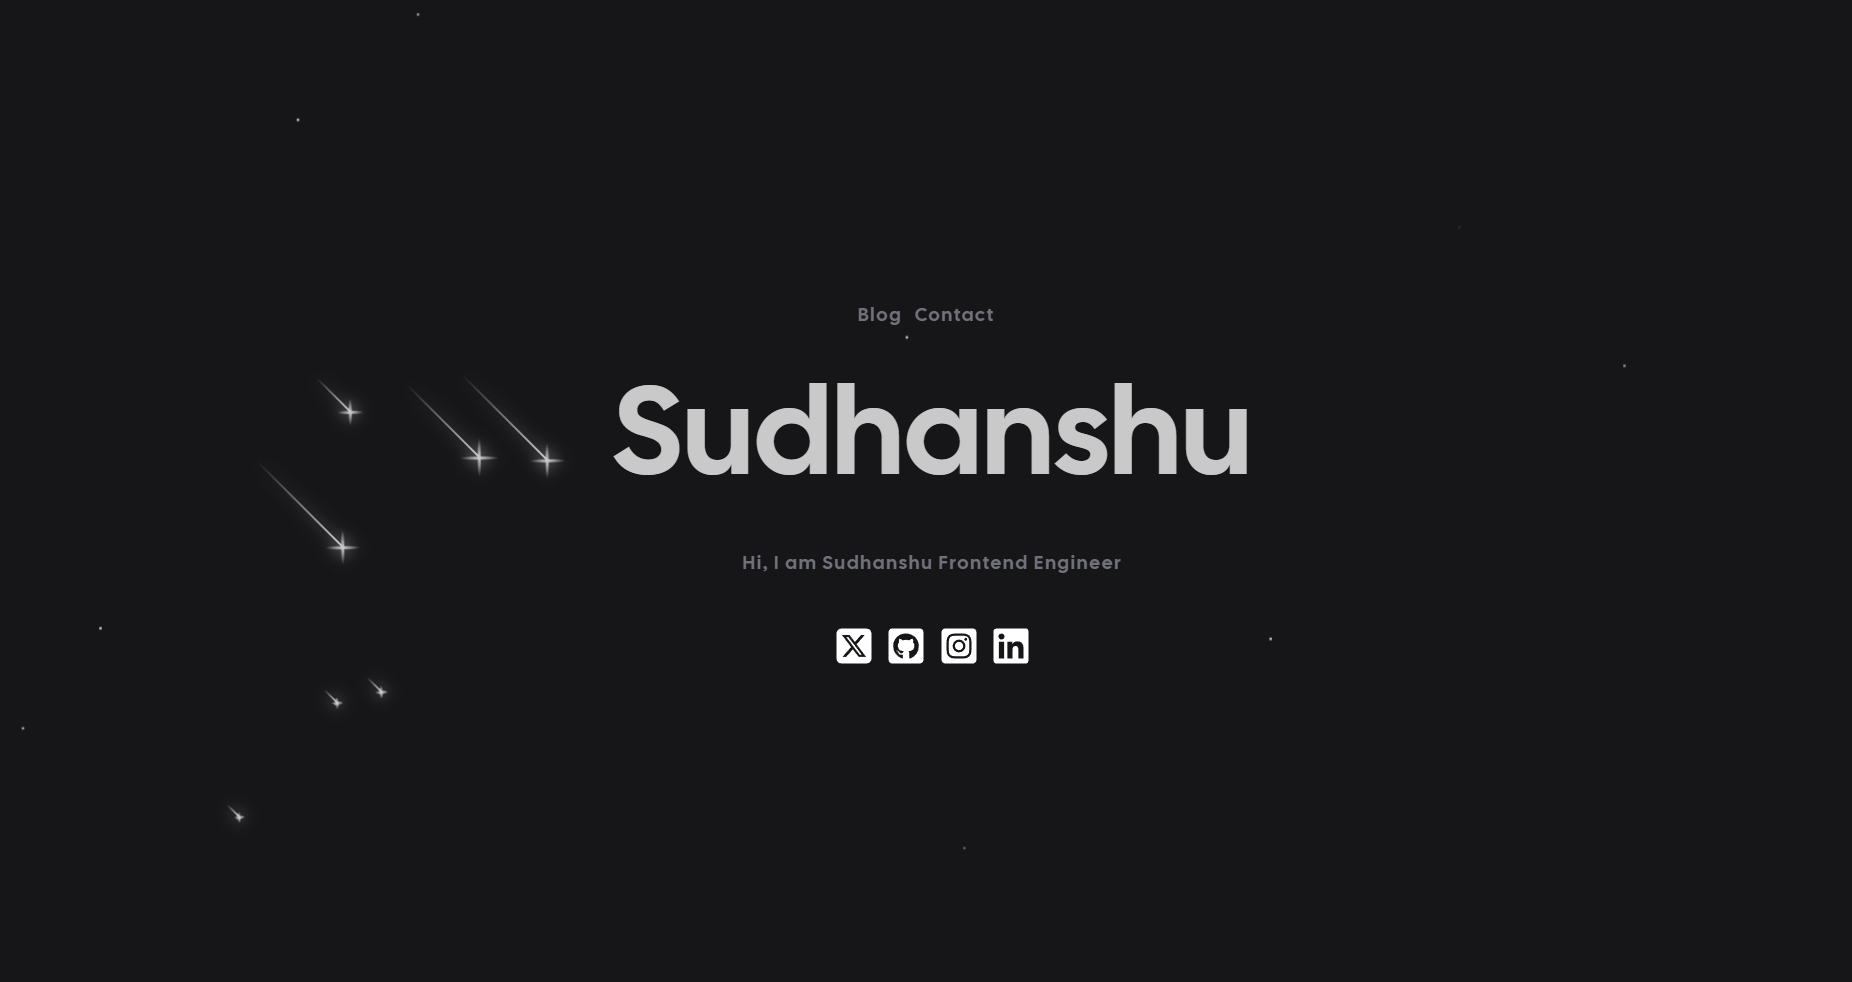
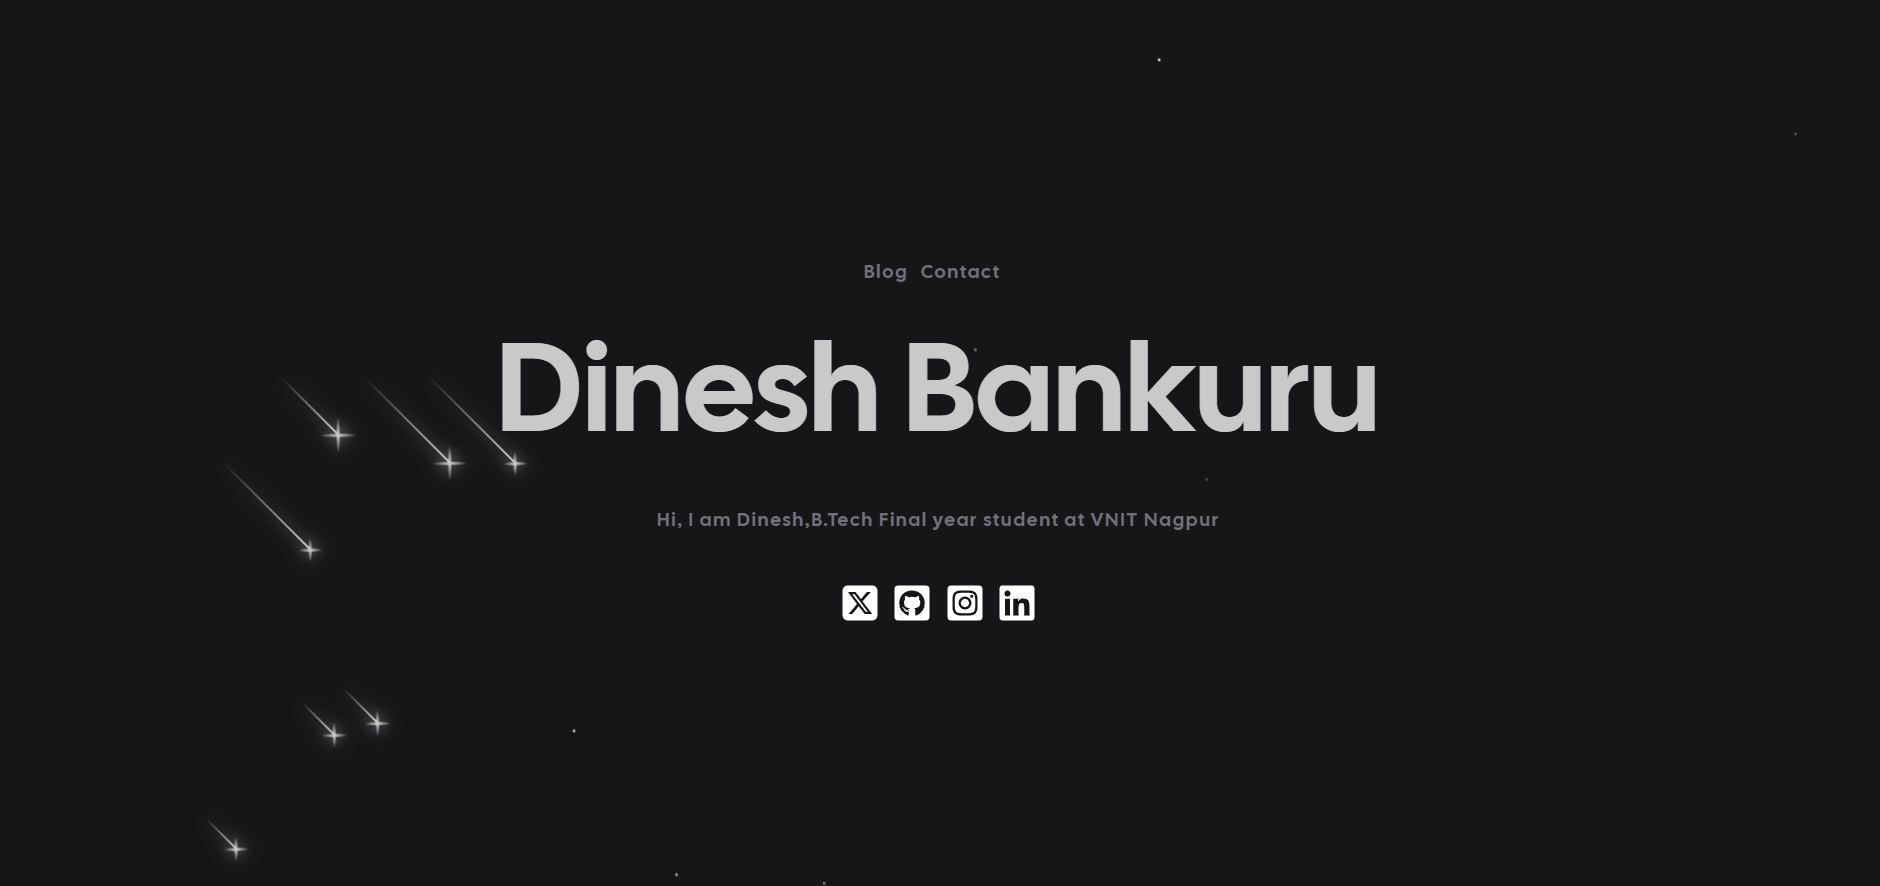
Made Changes

diff --git a/index.html b/index.html
@@ -21,38 +21,38 @@
     <meta name="viewport" content="width=device-width, initial-scale=1.0" />
 
     <!--  Essential META Tags -->
-    <meta property="og:title" content="sudhanshu soni" />
+    <meta property="og:title" content="Dinesh Bankuru" />
     <meta property="og:type" content="article" />
     <meta
       property="og:image"
-      content="https://sudhanshusoni.tech/siteThumbnail.png"
+      content="https://dinesh-portfolio-roan.vercel.app/siteThumbnail.png"
     />
     <meta
       property="og:url"
-      content="https://sudhanshusoni.tech/siteThumbnail.png"
+      content="https://dinesh-portfolio-roan.vercel.app/siteThumbnail.png"
     />
     <meta name="twitter:card" content="summary_large_image" />
     <meta
       name="twitter:image"
-      content="https://sudhanshusoni.tech/siteThumbnail.png"
+      content="https://dinesh-portfolio-roan.vercel.app/siteThumbnail.png"
     />
 
     <!--  Non-Essential, But Recommended -->
     <meta
       property="og:description"
-      content="Hi, I am Sudhanshu a Freelance Frontend Developer cum wizard!"
+      content="Hi, I am Dinesh Bankuru, This is my portfolio"
     />
-    <meta property="og:site_name" content="Sudhanshu soni" />
-    <meta name="twitter:image:alt" content="sudhanshu soni" />
+    <meta property="og:site_name" content="Dinesh Bankuru" />
+    <meta name="twitter:image:alt" content="Dinesh Bnakuru" />
 
     <!--  Non-Essential, But Required for Analytics -->
-    <meta name="twitter:site" content="@sudhanshusoni__" />
+    <meta name="twitter:site" content="@Dinesh_Bankuru" />
 
     <link rel="apple-touch-icon" sizes="180x180" href="/apple-touch-icon.png" />
     <link rel="icon" type="image/png" sizes="32x32" href="/favicon-32x32.png" />
     <link rel="icon" type="image/png" sizes="16x16" href="/favicon-16x16.png" />
     <link rel="manifest" href="/site.webmanifest" />
-    <title>Sudhanshu Soni</title>
+    <title>Dinesh Bankuru</title>
     <script
       src="https://kit.fontawesome.com/e06444868d.js"
       crossorigin="anonymous"
